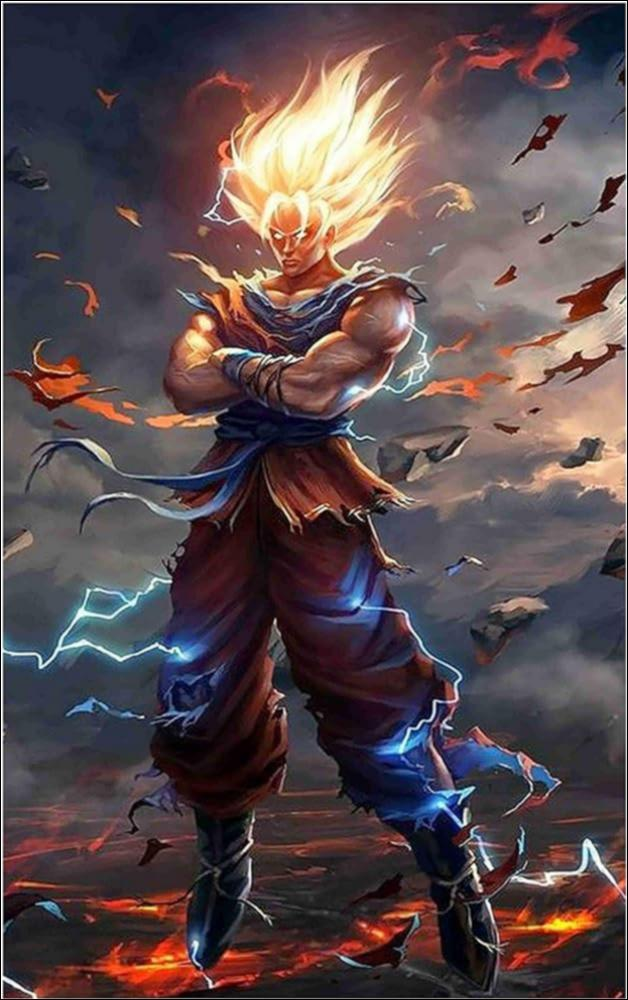
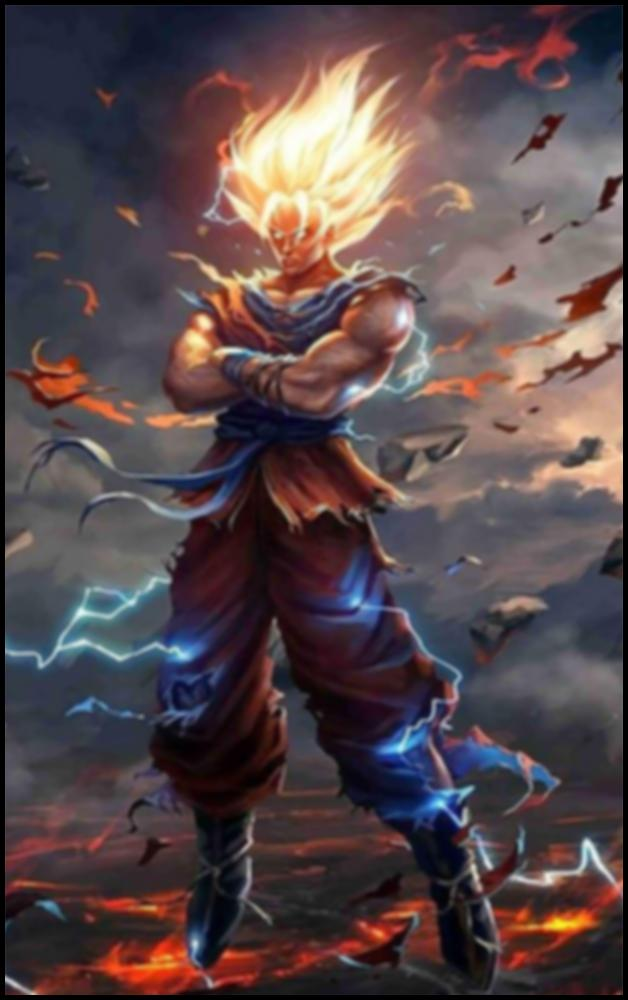
Upgrade blur kernel to 10x10, update README, and capture sample output for input2.jpg

diff --git a/src/src/ThreadedBlur.java b/src/src/ThreadedBlur.java
@@ -20,25 +20,28 @@ public class ThreadedBlur implements Runnable {
         int width = src.getWidth();
         int[][] kernel = Main.KERNEL;
         int normalizer = Main.KERNEL_NORMALIZER;
+        int kernelSize = kernel.length;
+        int offsetStart = -((kernelSize - 1) / 2);
+        int offsetEnd = offsetStart + kernelSize - 1;
 
         // Thread safely crunches ONLY its statically assigned block of rows
         for (int y = startRow; y < endRow; y++) {
-            for (int x = 2; x < width - 2; x++) {
+            for (int x = kernelSize / 2; x < width - (kernelSize / 2); x++) {
                 
                 int redSum = 0;
                 int greenSum = 0;
                 int blueSum = 0;
 
-                // 5x5 Spatial Convolution Matrix Overlay
-                for (int ky = -2; ky <= 2; ky++) {
-                    for (int kx = -2; kx <= 2; kx++) {
+                // Spatial convolution matrix overlay
+                for (int ky = offsetStart; ky <= offsetEnd; ky++) {
+                    for (int kx = offsetStart; kx <= offsetEnd; kx++) {
                         int rgb = src.getRGB(x + kx, y + ky);
                         
                         int r = (rgb >> 16) & 0xFF;
                         int g = (rgb >> 8) & 0xFF;
                         int b = rgb & 0xFF;
 
-                        int weight = kernel[ky + 2][kx + 2];
+                        int weight = kernel[ky - offsetStart][kx - offsetStart];
 
                         redSum += r * weight;
                         greenSum += g * weight;
@@ -60,13 +63,15 @@ public class ThreadedBlur implements Runnable {
     public static void applyBlur(BufferedImage src, BufferedImage dest, int threadCount) {
         int height = src.getHeight();
         Thread[] threads = new Thread[threadCount];
+        int kernelSize = Main.KERNEL.length;
+        int border = kernelSize / 2;
         
-        // Calculate the height of each thread's slice (skipping the 2-pixel outer border margin)
-        int totalRowsToProcess = height - 4; 
+        // Calculate the height of each thread's slice (skipping the outer border margin)
+        int totalRowsToProcess = height - (2 * border);
         int rowsPerThread = totalRowsToProcess / threadCount;
         int remainingRows = totalRowsToProcess % threadCount; // Catch any remainder rows
 
-        int currentStartRow = 2;
+        int currentStartRow = border;
 
         // Allocate workloads statically across the native thread array
         for (int i = 0; i < threadCount; i++) {

diff --git a/src/src/Main.java b/src/src/Main.java
@@ -8,18 +8,25 @@ import java.nio.file.Paths;
 import java.util.concurrent.ForkJoinPool;
 
 public class Main {
-    // 5x5 Gaussian Kernel definitions (stronger blur)
-    public static final int[][] KERNEL = {
-        {1, 4, 6, 4, 1},
-        {4, 16, 24, 16, 4},
-        {6, 24, 36, 24, 6},
-        {4, 16, 24, 16, 4},
-        {1, 4, 6, 4, 1}
-    };
-    public static final int KERNEL_NORMALIZER = 256; 
+    // 10x10 Gaussian-like Kernel definitions (stronger blur)
+    public static final int[] KERNEL_1D = {1, 4, 10, 16, 19, 19, 16, 10, 4, 1};
+    public static final int KERNEL_NORMALIZER = 10000;
+    public static final int[][] KERNEL = generateKernel();
+    public static final int KERNEL_MARGIN = KERNEL.length / 2;
 
     // Threshold config: process sequentially if a chunk has fewer than 50 rows
-    public static final int ROW_THRESHOLD = 50; 
+    public static final int ROW_THRESHOLD = 50;
+
+    private static int[][] generateKernel() {
+        int size = KERNEL_1D.length;
+        int[][] kernel = new int[size][size];
+        for (int row = 0; row < size; row++) {
+            for (int col = 0; col < size; col++) {
+                kernel[row][col] = KERNEL_1D[row] * KERNEL_1D[col];
+            }
+        }
+        return kernel;
+    } 
 
     public static void main(String[] args) {
         String outputDir = "output";
@@ -90,7 +97,7 @@ public class Main {
         System.out.println("\nStarting Fork/Join parallel blur...");
         ForkJoinPool pool = new ForkJoinPool(availableCores);
         long startTimeFJ = System.currentTimeMillis();
-        ForkJoinBlur topLevelTask = new ForkJoinBlur(originalImage, blurredImageFJ, 2, height - 2, ROW_THRESHOLD);
+        ForkJoinBlur topLevelTask = new ForkJoinBlur(originalImage, blurredImageFJ, KERNEL_MARGIN, height - KERNEL_MARGIN, ROW_THRESHOLD);
         pool.invoke(topLevelTask);
         long endTimeFJ = System.currentTimeMillis();
         long durationFJ = endTimeFJ - startTimeFJ;

diff --git a/src/src/ForkJoinBlur.java b/src/src/ForkJoinBlur.java
@@ -42,25 +42,28 @@ public class ForkJoinBlur extends RecursiveAction {
         int width = src.getWidth();
         int[][] kernel = Main.KERNEL;
         int normalizer = Main.KERNEL_NORMALIZER;
+        int kernelSize = kernel.length;
+        int offsetStart = -((kernelSize - 1) / 2);
+        int offsetEnd = offsetStart + kernelSize - 1;
 
         // Process only the rows assigned to this specific fork/chunk
         for (int y = startRow; y < endRow; y++) {
-            for (int x = 2; x < width - 2; x++) {
+            for (int x = kernelSize / 2; x < width - (kernelSize / 2); x++) {
                 
                 int redSum = 0;
                 int greenSum = 0;
                 int blueSum = 0;
 
-                // 5x5 Convolution matrix overlay
-                for (int ky = -2; ky <= 2; ky++) {
-                    for (int kx = -2; kx <= 2; kx++) {
+                // Convolution matrix overlay
+                for (int ky = offsetStart; ky <= offsetEnd; ky++) {
+                    for (int kx = offsetStart; kx <= offsetEnd; kx++) {
                         int rgb = src.getRGB(x + kx, y + ky);
                         
                         int r = (rgb >> 16) & 0xFF;
                         int g = (rgb >> 8) & 0xFF;
                         int b = rgb & 0xFF;
 
-                        int weight = kernel[ky + 2][kx + 2];
+                        int weight = kernel[ky - offsetStart][kx - offsetStart];
 
                         redSum += r * weight;
                         greenSum += g * weight;

diff --git a/src/src/SequentialBlur.java b/src/src/SequentialBlur.java
@@ -8,21 +8,25 @@ public class SequentialBlur {
         int height = src.getHeight();
         int[][] kernel = Main.KERNEL;
         int normalizer = Main.KERNEL_NORMALIZER;
+        int kernelSize = kernel.length;
+        int offsetStart = -((kernelSize - 1) / 2);
+        int offsetEnd = offsetStart + kernelSize - 1;
+        int border = kernelSize / 2;
 
-        for (int y = 2; y < height - 2; y++) {
-            for (int x = 2; x < width - 2; x++) {
+        for (int y = border; y < height - border; y++) {
+            for (int x = border; x < width - border; x++) {
                 int redSum = 0;
                 int greenSum = 0;
                 int blueSum = 0;
 
-                for (int ky = -2; ky <= 2; ky++) {
-                    for (int kx = -2; kx <= 2; kx++) {
+                for (int ky = offsetStart; ky <= offsetEnd; ky++) {
+                    for (int kx = offsetStart; kx <= offsetEnd; kx++) {
                         int rgb = src.getRGB(x + kx, y + ky);
                         int r = (rgb >> 16) & 0xFF;
                         int g = (rgb >> 8) & 0xFF;
                         int b = rgb & 0xFF;
 
-                        int weight = kernel[ky + 2][kx + 2];
+                        int weight = kernel[ky - offsetStart][kx - offsetStart];
                         redSum += r * weight;
                         greenSum += g * weight;
                         blueSum += b * weight;

diff --git a/README.md b/README.md
@@ -12,7 +12,7 @@ A high-performance Java application comparing **sequential** and **fork/join par
 4. [Code Structure](#code-structure)
 5. [How It Works](#how-it-works)
 6. [Performance Trade-offs](#performance-trade-offs)
-7. [Benchmark Results (v2.0)](#benchmark-results-v20)
+7. [Benchmark Results (v4.0)](#benchmark-results-v40)
 8. [Building the Project](#building-the-project)
 9. [Running on macOS](#running-on-macos)
 10. [Running on Windows](#running-on-windows)
@@ -37,6 +37,7 @@ This is a demonstration of:
 - Parallel programming concepts in Java
 - Comparison of different parallelization strategies (Fork/Join vs. Native Threads)
 - Trade-offs between sequential and parallel algorithms
+- Use of a larger 10×10 Gaussian-like kernel for a stronger blur effect
 - How to measure empirical speedup: **S = Ts / Tp**
 - Understanding when parallelization is beneficial
 - Real-world performance benchmarking across different image resolutions
@@ -81,15 +82,15 @@ Performance Analysis:
 
 ### Gaussian Blur
 
-Gaussian blur is a convolution operation using a **5×5 kernel** for stronger blur effect:
+Gaussian blur is a convolution operation using a **10×10 Gaussian-like kernel** for stronger blur effect.
+
+The kernel is generated from a 1D weight vector:
 
 ```
-Kernel:  | 1   4   6   4   1 |     (Normalizer: 256)
-         | 4  16  24  16   4 |
-         | 6  24  36  24   6 |
-         | 4  16  24  16   4 |
-         | 1   4   6   4   1 |
+[1, 4, 10, 16, 19, 19, 16, 10, 4, 1]
 ```
+
+Each entry is combined as an outer product to create a 10×10 matrix, and the result is normalized by `10000`.
 
 **For each pixel (x, y):**
 
@@ -100,9 +101,9 @@ output[x, y] = (sum of (source_pixel * kernel_weight)) / normalizer
 The operation is applied to all three color channels (R, G, B) independently.
 
 **Edge Handling:**
-- Pixels at the 2-pixel border (edges of the image) are skipped to avoid out-of-bounds array access
-- This means the algorithm safely processes pixels from (2, 2) to (width-3, height-3)
-- The 5×5 kernel requires a 2-pixel margin on all sides to safely access the 25 neighboring pixels
+- Pixels at the 5-pixel border (edges of the image) are skipped to avoid out-of-bounds array access
+- This means the algorithm safely processes pixels from (5, 5) to (width-6, height-6)
+- The 10×10 kernel requires a 5-pixel margin on all sides to safely access the 100 neighboring pixels
 
 ### Time Complexity
 
@@ -126,8 +127,8 @@ The operation is applied to all three color channels (R, G, B) independently.
 - Calculates and displays speedup metrics
 
 **Key Variables:**
-- `KERNEL` — 5×5 Gaussian kernel weights (25 elements)
-- `KERNEL_NORMALIZER` — Division factor (256) to normalize kernel output
+- `KERNEL` — 10×10 Gaussian-like kernel weights (100 elements)
+- `KERNEL_NORMALIZER` — Division factor (10000) to normalize kernel output
 - `ROW_THRESHOLD` — Threshold (50 rows) to determine when to stop dividing and process sequentially
 
 **Public Methods:**
@@ -150,9 +151,9 @@ The operation is applied to all three color channels (R, G, B) independently.
 
 **Algorithm:**
 ```
-for each row (y) from 2 to height-3:
-    for each column (x) from 2 to width-3:
-        apply 5x5 Gaussian kernel convolution
+for each row (y) from 5 to height-6:
+    for each column (x) from 5 to width-6:
+        apply 10x10 Gaussian-like kernel convolution
         write result to output image
 ```
 
@@ -349,9 +350,9 @@ GaussianBlurParallel/
 
 **Sequential Processing:**
 1. Load `input.jpg` into memory
-2. For each pixel (x, y) from (2,2) to (1998, 2998):
-   - Sample 5×5 neighborhood
-   - Apply Gaussian kernel
+2. For each pixel (x, y) from (5, 5) to (1994, 2994):
+   - Sample 10×10 neighborhood
+   - Apply Gaussian-like kernel
    - Store result
 3. Save to `output/input_sequential.jpg`
 4. **Time:** ~984 ms
@@ -428,7 +429,7 @@ The efficiency of 28% is typical for image processing:
 
 ---
 
-## Benchmark Results (v2.0)
+## Benchmark Results (v4.0)
 
 ### Comprehensive Performance Analysis
 
@@ -963,20 +964,20 @@ Java's `ForkJoinPool` is ideal for this problem because:
 
 ### Kernel Size Justification
 
-The 5×5 Gaussian kernel is chosen because:
+The 10×10 Gaussian-like kernel is chosen because:
 
 1. **Stronger Blur Effect** — More noticeable smoothing; recommended for visible blur in applications
-2. **Balanced Performance** — 25 samples per pixel; still manageable computational cost
+2. **Balanced Performance** — 100 samples per pixel; still manageable with modern multi-core hardware
 3. **Better Parallelization** — More work per pixel → reduces relative overhead of parallelization
 4. **Practical Relevance** — Stronger blur better demonstrates speedup gains on multi-core systems
-5. **Industry Standard Range** — 5×5 kernels commonly used in professional image editing
+5. **Advanced Demonstration** — Larger kernels show how the algorithm scales beyond common 5×5 filters
 
 ### Edge Handling
 
-Pixels at image borders (2-pixel margin) are **not processed** because:
+Pixels at image borders (5-pixel margin) are **not processed** because:
 
 1. **Out-of-Bounds Safety** — Prevents array access errors at edges
-2. **Kernel Centering** — 5×5 kernel needs all 25 neighbors; requires 2-pixel margin on all sides
+2. **Kernel Centering** — 10×10 kernel needs all 100 neighbors; requires a 5-pixel margin on all sides
 3. **Standard Practice** — Most image libraries use same approach
 4. **Negligible Impact** — Border is <1% of image for typical resolutions
 
@@ -986,7 +987,7 @@ Pixels at image borders (2-pixel margin) are **not processed** because:
 
 To extend this project:
 
-1. **Larger Kernels** — Implement 5×5 or 7×7 Gaussian kernels
+1. **Larger Kernels** — Implement 10×10 or other larger Gaussian kernels
 2. **Other Filters** — Sobel (edge detection), Median (denoising)
 3. **Streaming Mode** — Process images line-by-line for memory efficiency
 4. **GPU Acceleration** — Port to CUDA/OpenCL for 10-100x speedup
